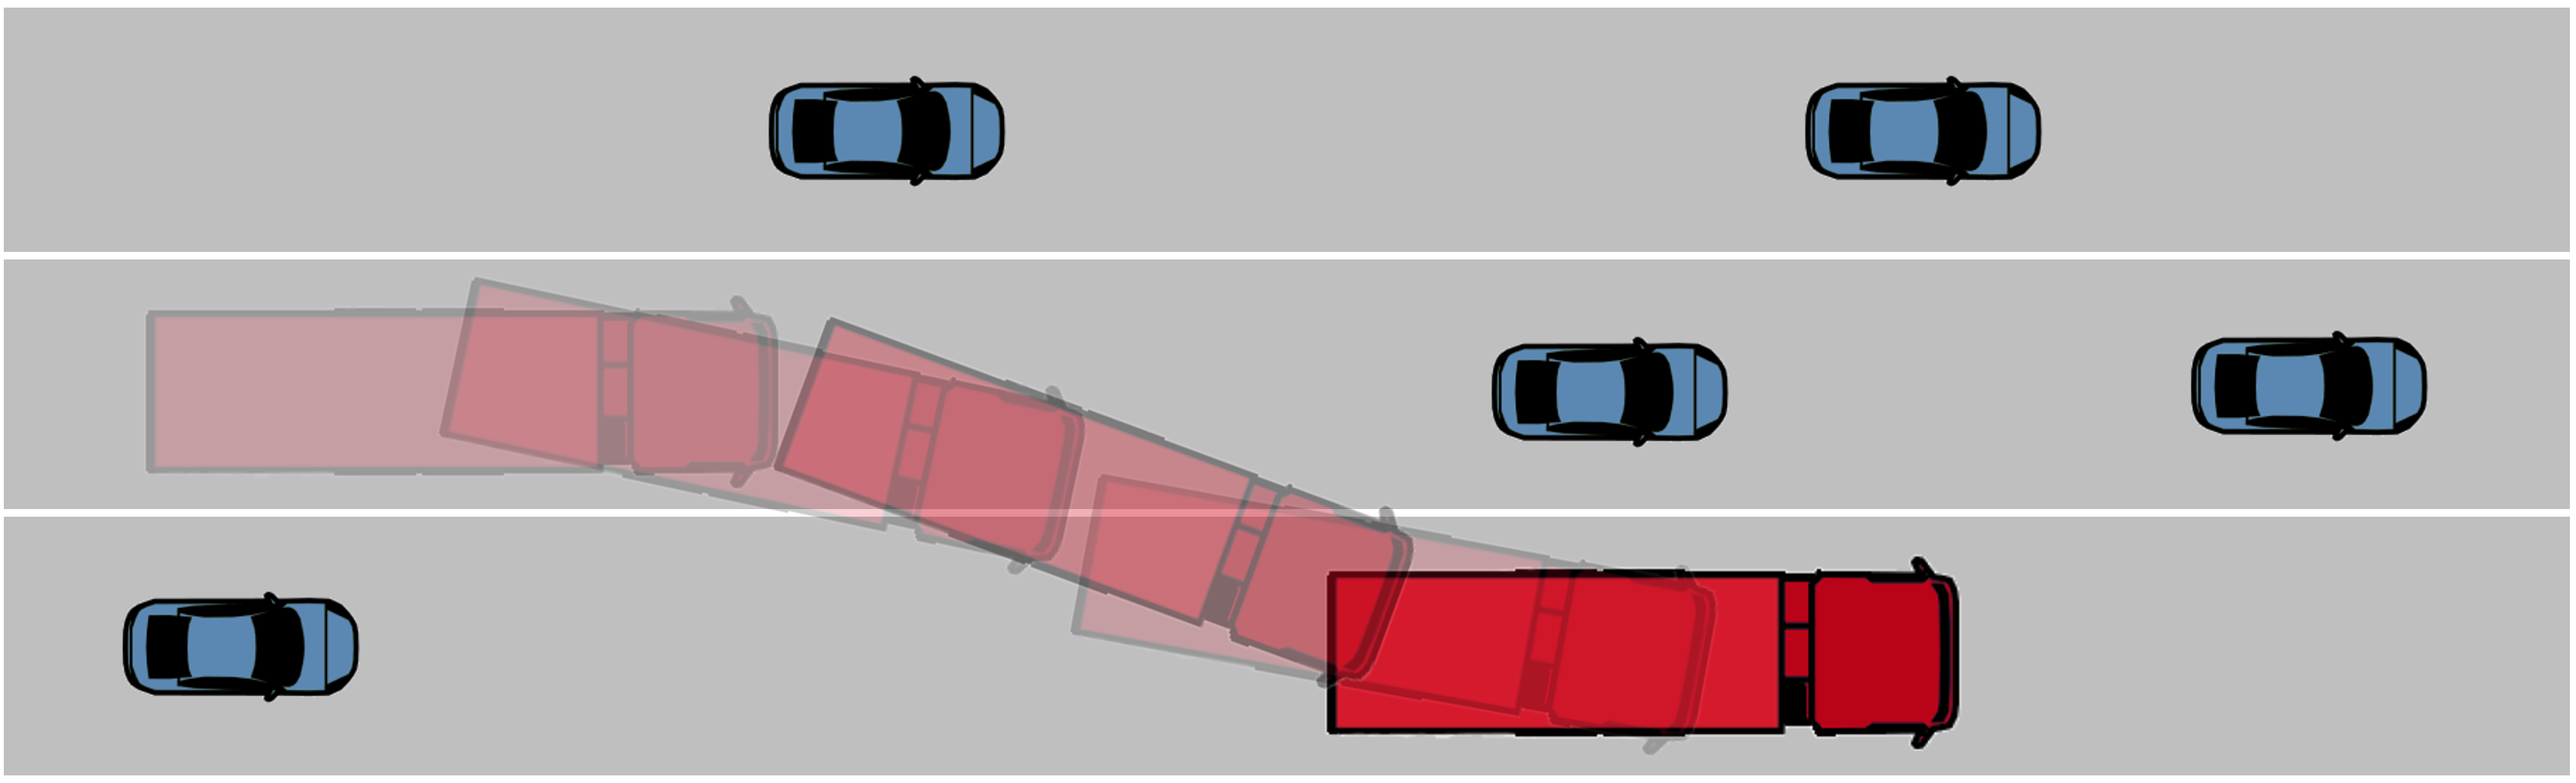
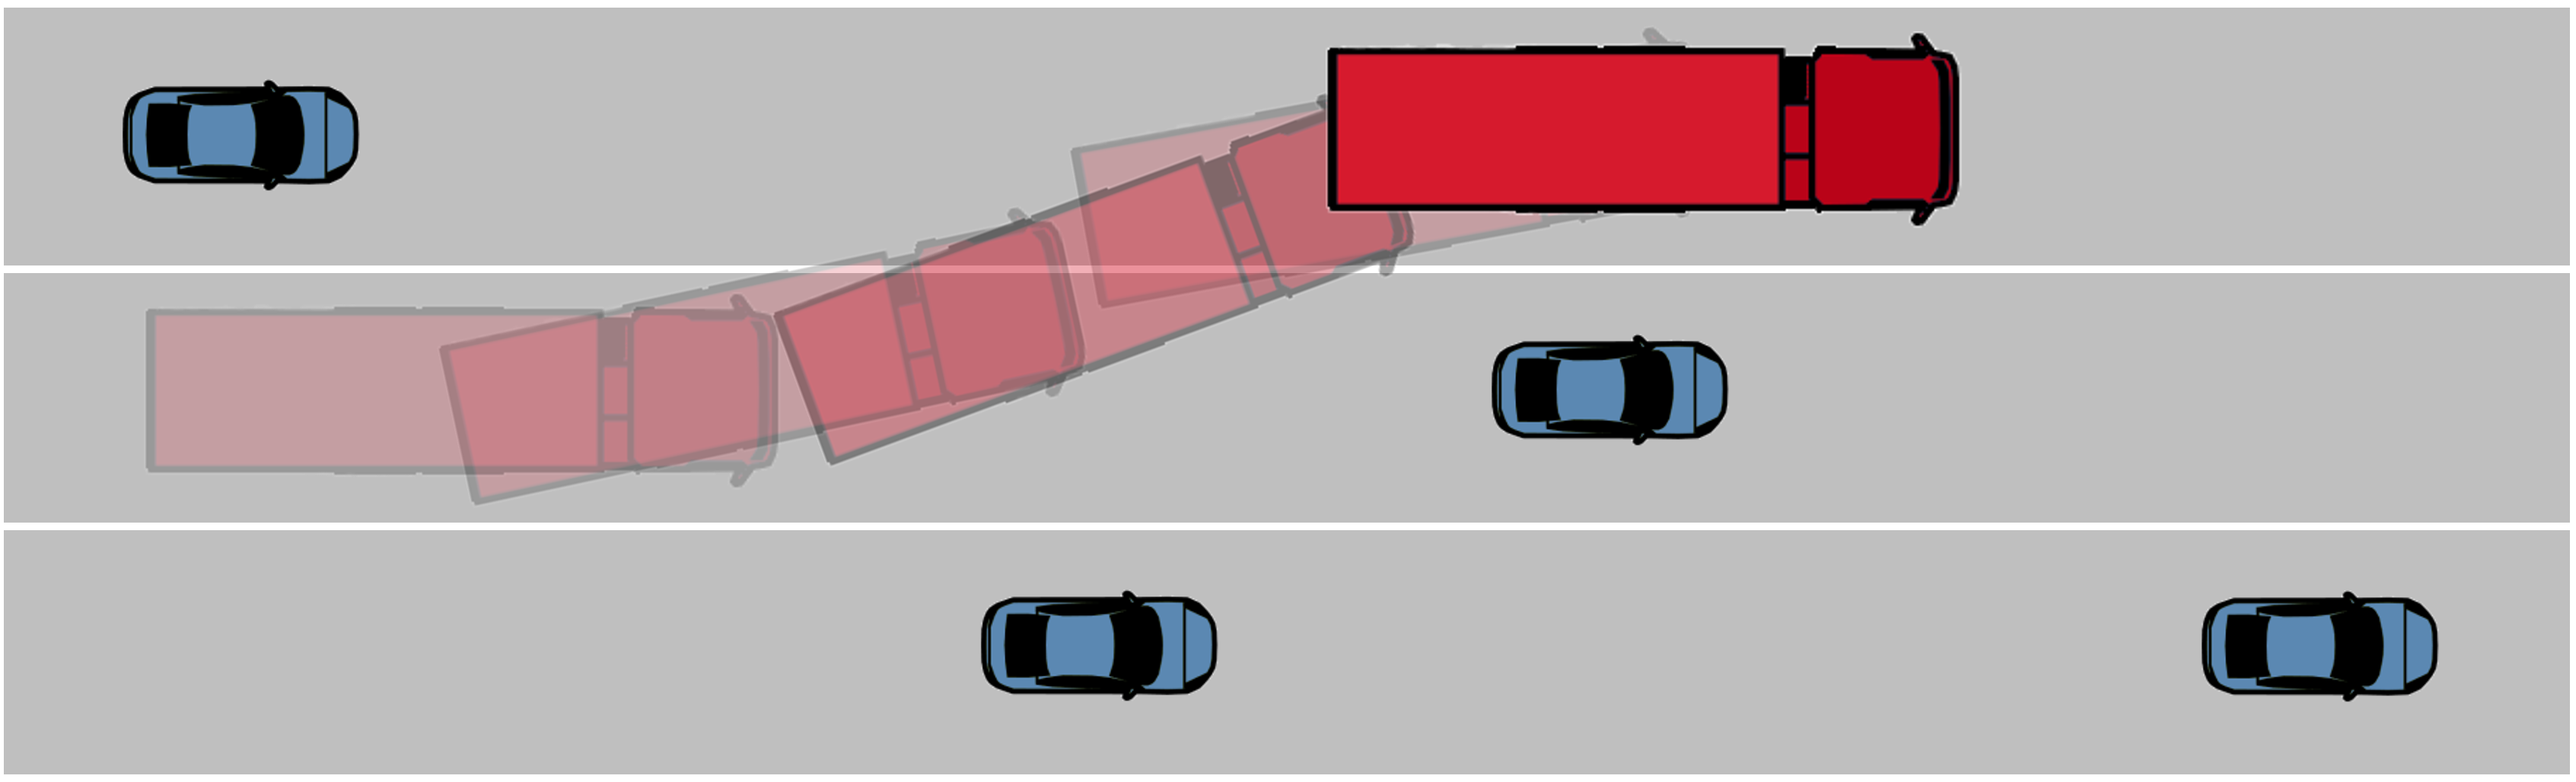
update plot

diff --git a/README.md b/README.md
@@ -85,6 +85,12 @@ Collision Avoidance Success Rate:  99/100
 (Simulate in CARLA with 100 experiments of randomly generated environment)
 ```
 
+**Complex Scenerio Simulation in CARLA:**  
+
+<p align="center">
+  <img src="Figure/complex_scenerio.png" alt="Complex Scenerio" width="100%">
+</p>
+
 <p align="center">
   <img src="Figure/CARLA_SIM.gif" alt="Decision Making Process" width="100%">
 </p>
